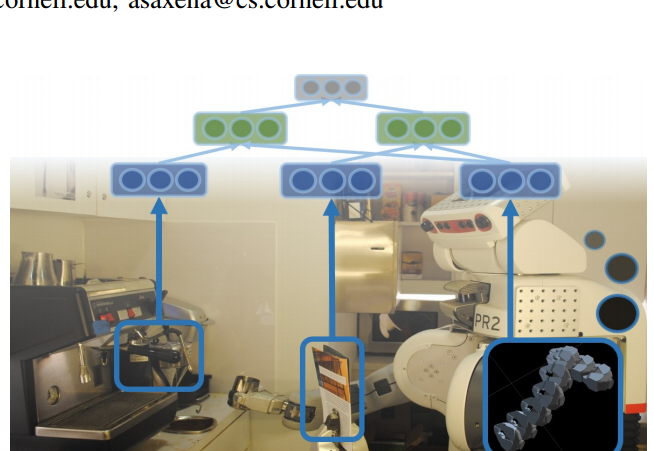
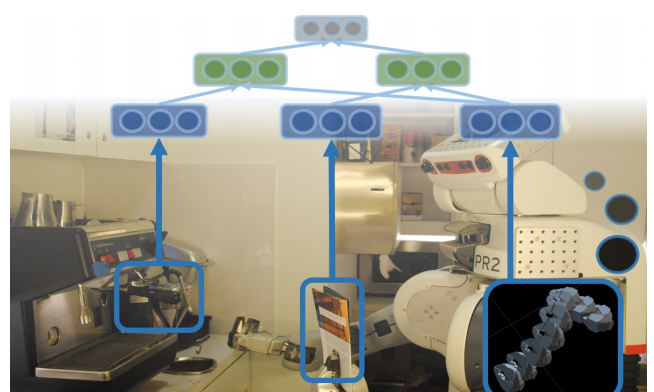
Minor Edit

diff --git a/app/views/application.html b/app/views/application.html
@@ -19,7 +19,7 @@ connections between parts of RoboBrain and the planit trajectory preference algo
 <p>The assistive robots working with humans should be able to understand human activities and also anticipate the future actions that the human can perform.
 In order to anticipate, the robot should reason over the action possibilities in the environment, i.e., object affordances, and how the actions can be performed, i.e., trajectories.</p> 
 
-<img src="images/application/anticipation_robobrain.png" class="application_image"  style="height:150px;"> 
+<img src="images/application/anticipation_robobrain.png" class="application_image"  style="height:200px;"> 
 
 <p>In order to anticipate the future human actions, RoboBrain stores the learned parameters of the anticipatory algorithm of <a href="http://pr.cs.cornell.edu/anticipation/" target="_blank">Koppula et al. 13</a>. RaQueL query
 can then be used to anticipate the most likely future object affordances and human trajectories. This is shown in the figure above.</p>
@@ -53,14 +53,14 @@ with parts similar to the objects on which it was trained.</p>
 
 <div class="row">
 	<h2 style="text-align:center;">Partner Projects</h2>
-	<div class="col-md-6">
+	<div class="col-md-5" style="margin-right:10%;">
 		<div class="row"><img src="images/application/brain4cars.jpg" style="height:125px;"></div>
-		<div class="row"><a href="http://brain4cars.com/" target="_blank">Brain4Cars</a></div>
+		<div class="row"><a href="http://brain4cars.com/" target="_blank"><b>Brain4Cars</b></a></div>
 		<div class="row">Intelligent car cabin sensing</div>
 	</div>
-	<div class="col-md-6">
+	<div class="col-md-5">
 		<div class="row"><img src="images/application/robobarista.png" style="height:125px;"></div>
-		<div class="row"><a href="http://robobarista.cs.cornell.edu/" target="_blank">RoboBarista</a></div>
+		<div class="row"><a href="http://robobarista.cs.cornell.edu/" target="_blank"><b>RoboBarista</b></a></div>
 		<div class="row">Manipulating novel objects using learning based on transfer of object parts</div>
 	</div>
 </div>
